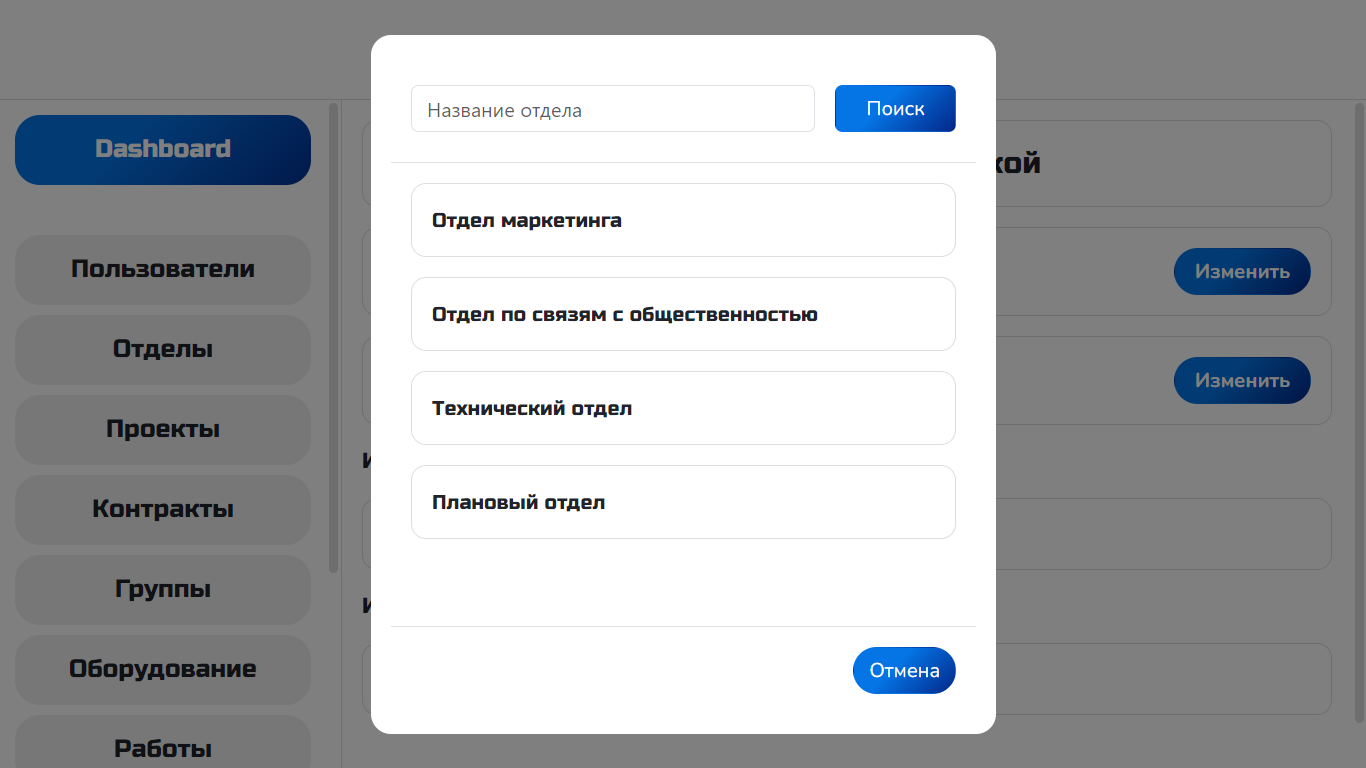
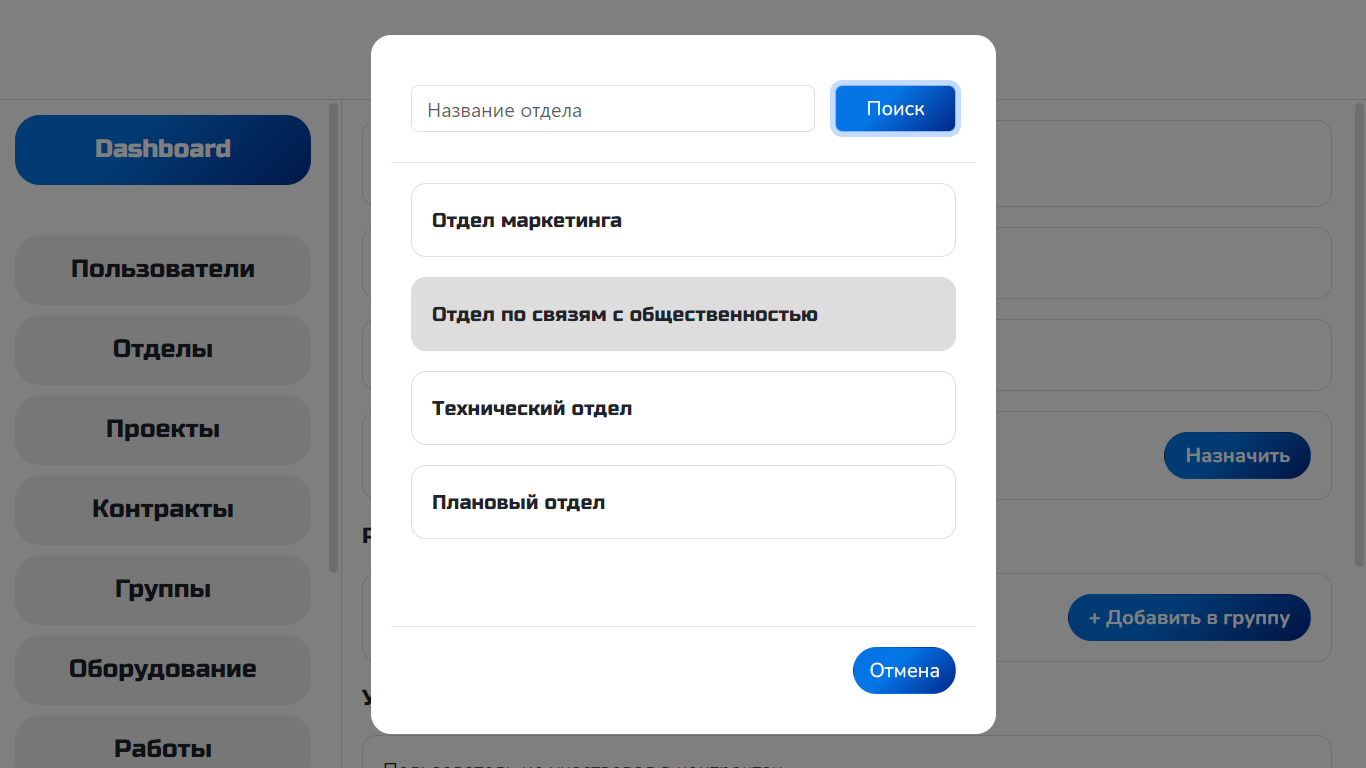
Update style

diff --git a/src/components/dashboard/dialogs/SelectDepartment.vue b/src/components/dashboard/dialogs/SelectDepartment.vue
@@ -90,8 +90,8 @@
       <div v-show="this.searchMessage" class="interstellarium-error text-danger text-center">
         {{ this.searchMessage }}
       </div>
-      <div v-for="department in this.departments" class="interstellarium-unit-card">
-        <a @click="this.select(department)" data-bs-dismiss="modal" class="interstellarium-unit-link">
+      <div v-for="department in this.departments" @click="this.select(department)" data-bs-dismiss="modal" class="interstellarium-unit-clickable-card">
+        <a class="interstellarium-unit-link">
           {{ department.name }}
         </a>
       </div>

diff --git a/src/components/dashboard/dialogs/SelectEquipment.vue b/src/components/dashboard/dialogs/SelectEquipment.vue
@@ -90,8 +90,8 @@
       <div v-show="this.searchMessage" class="interstellarium-error text-danger text-center">
         {{ this.searchMessage }}
       </div>
-      <div v-for="equipment in this.equipment" class="interstellarium-unit-card">
-        <a @click="this.select(equipment)" data-bs-dismiss="modal" class="interstellarium-unit-link">
+      <div v-for="equipment in this.equipment" @click="this.select(equipment)" data-bs-dismiss="modal" class="interstellarium-unit-clickable-card">
+        <a class="interstellarium-unit-link">
           {{ equipment.name }}
         </a>
       </div>

diff --git a/src/components/dashboard/dialogs/SelectContract.vue b/src/components/dashboard/dialogs/SelectContract.vue
@@ -90,8 +90,8 @@
       <div v-show="this.searchMessage" class="interstellarium-error text-danger text-center">
         {{ this.searchMessage }}
       </div>
-      <div v-for="contract in this.contracts" class="interstellarium-unit-card">
-        <a @click="this.select(contract)" data-bs-dismiss="modal" class="interstellarium-unit-link">
+      <div v-for="contract in this.contracts" @click="this.select(contract)" data-bs-dismiss="modal" class="interstellarium-unit-clickable-card">
+        <a class="interstellarium-unit-link">
           {{ contract.name }}
         </a>
       </div>

diff --git a/src/components/dashboard/dialogs/SelectProject.vue b/src/components/dashboard/dialogs/SelectProject.vue
@@ -90,8 +90,8 @@
       <div v-show="this.searchMessage" class="interstellarium-error text-danger text-center">
         {{ this.searchMessage }}
       </div>
-      <div v-for="project in this.projects" class="interstellarium-unit-card">
-        <a @click="this.select(project)" data-bs-dismiss="modal" class="interstellarium-unit-link">
+      <div v-for="project in this.projects" @click="this.select(project)" data-bs-dismiss="modal" class="interstellarium-unit-clickable-card">
+        <a class="interstellarium-unit-link">
           {{ project.name }}
         </a>
       </div>

diff --git a/src/styles/dashboard.css b/src/styles/dashboard.css
@@ -111,11 +111,23 @@
 }
 
 
-.interstellarium-unit-card, .interstellarium-unit-actionable-card {
+.interstellarium-unit-card,
+.interstellarium-unit-actionable-card,
+.interstellarium-unit-clickable-card {
     border: 1px solid #DDDDDD;
+    background-color: #FFFFFF;
     border-radius: .75rem;
     padding: 1rem;
     margin-bottom: 1rem;
+}
+
+.interstellarium-unit-clickable-card {
+    cursor: pointer;
+}
+
+.interstellarium-unit-clickable-card:hover {
+    background-color: #DDDDDD;
+    transition: background-color 0.15s ease-in-out ;
 }
 
 .interstellarium-unit-actions {

diff --git a/src/components/dashboard/dialogs/SelectGroup.vue b/src/components/dashboard/dialogs/SelectGroup.vue
@@ -90,8 +90,8 @@
       <div v-show="this.searchMessage" class="interstellarium-error text-danger text-center">
         {{ this.searchMessage }}
       </div>
-      <div v-for="group in this.groups" class="interstellarium-unit-card">
-        <a @click="this.select(group)" data-bs-dismiss="modal" class="interstellarium-unit-link">
+      <div v-for="group in this.groups" @click="this.select(group)" data-bs-dismiss="modal" class="interstellarium-unit-clickable-card">
+        <a class="interstellarium-unit-link">
           {{ group.name }}
         </a>
       </div>

diff --git a/src/components/dashboard/dialogs/SelectUser.vue b/src/components/dashboard/dialogs/SelectUser.vue
@@ -90,8 +90,8 @@
       <div v-show="this.searchMessage" class="interstellarium-error text-danger text-center">
         {{ this.searchMessage }}
       </div>
-      <div v-for="user in this.users" class="interstellarium-unit-card">
-        <a @click="this.select(user)" data-bs-dismiss="modal" class="interstellarium-unit-link">
+      <div v-for="user in this.users" @click="this.select(user)" data-bs-dismiss="modal" class="interstellarium-unit-clickable-card">
+        <a class="interstellarium-unit-link">
           {{ user.name }}
         </a>
       </div>

diff --git a/src/components/dashboard/dialogs/SelectWork.vue b/src/components/dashboard/dialogs/SelectWork.vue
@@ -90,8 +90,8 @@
       <div v-show="this.searchMessage" class="interstellarium-error text-danger text-center">
         {{ this.searchMessage }}
       </div>
-      <div v-for="work in this.works" class="interstellarium-unit-card">
-        <a @click="this.select(work)" data-bs-dismiss="modal" class="interstellarium-unit-link">
+      <div v-for="work in this.works" @click="this.select(work)" data-bs-dismiss="modal" class="interstellarium-unit-clickable-card">
+        <a class="interstellarium-unit-link">
           {{ work.name }}
         </a>
       </div>
